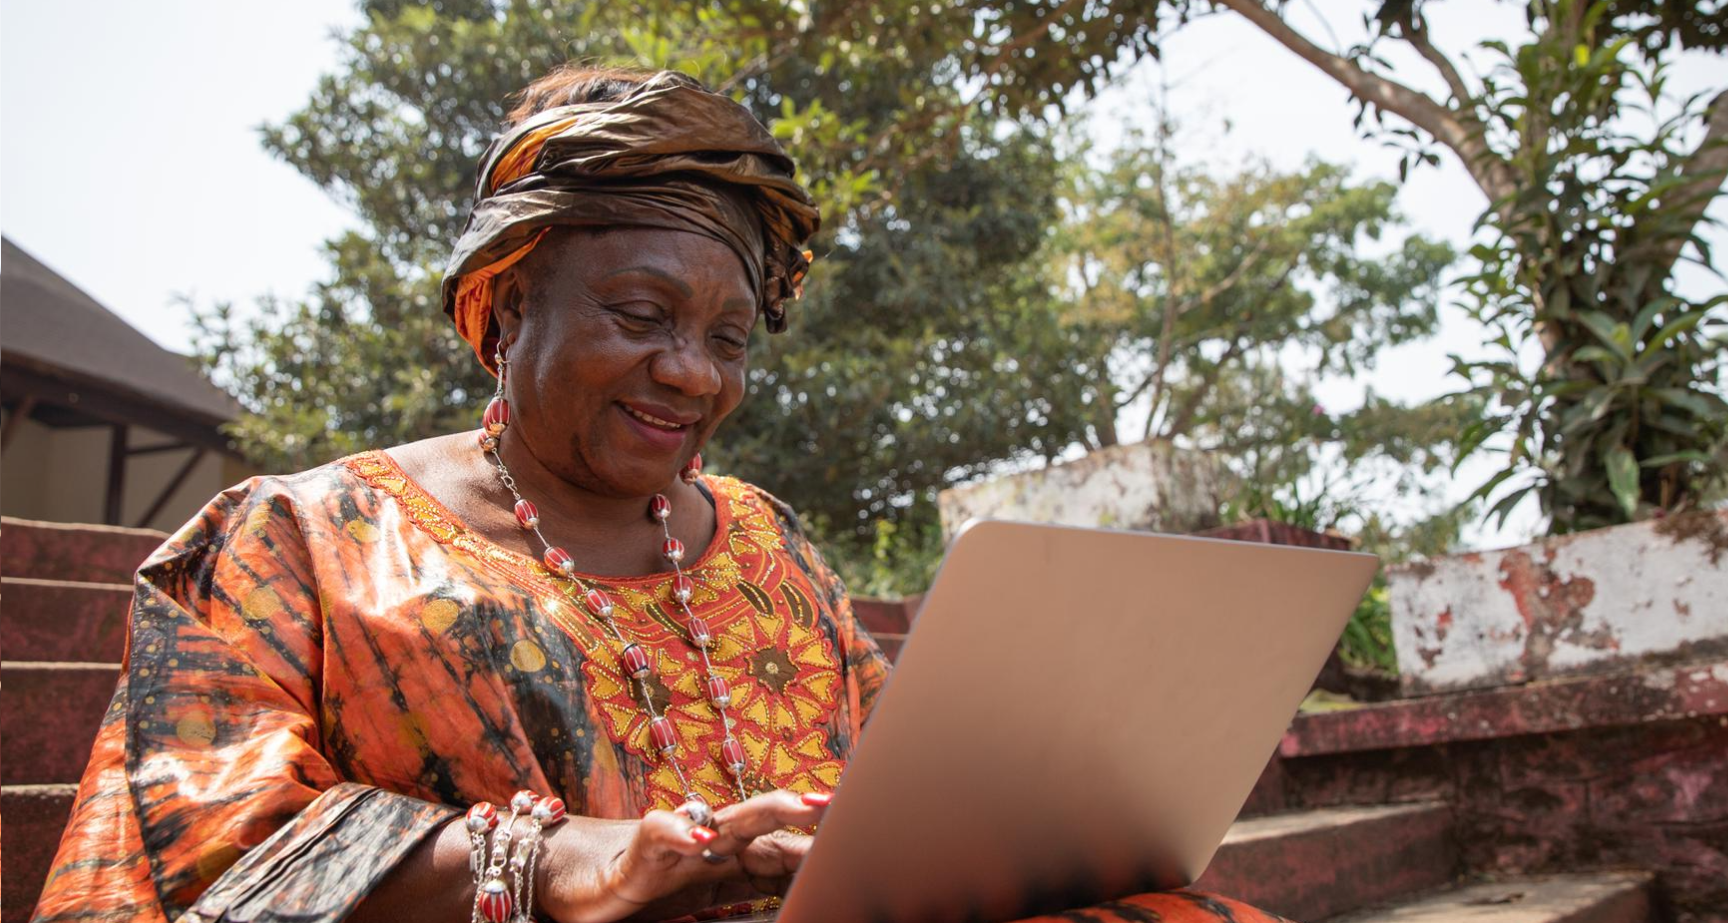
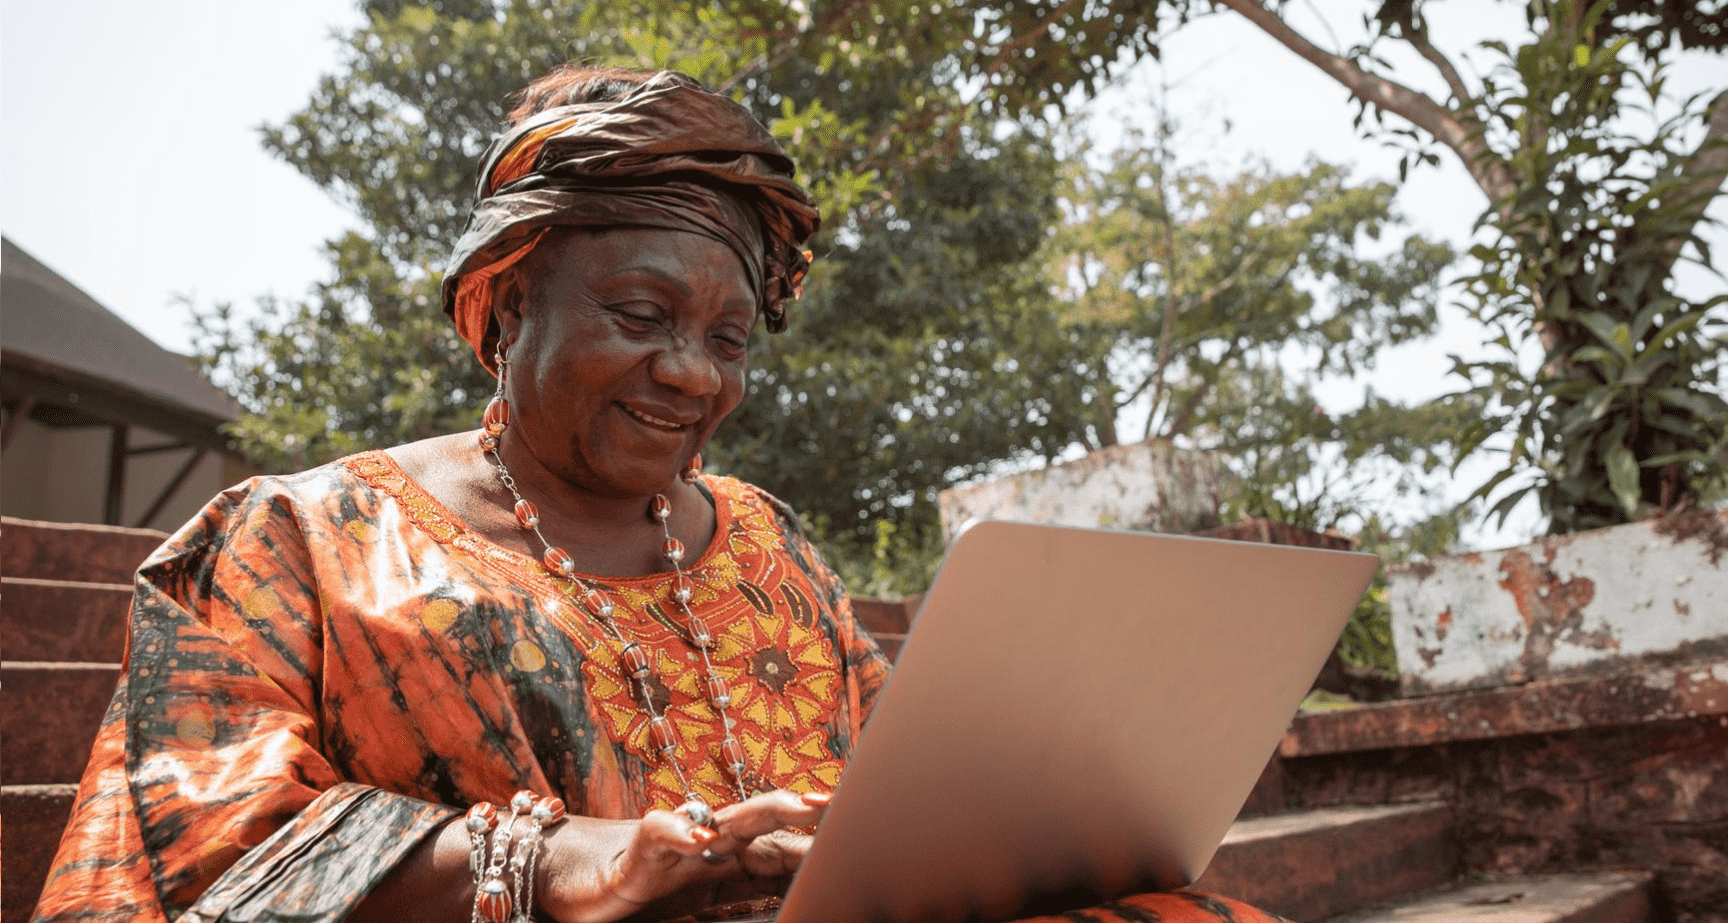
reduced image sizes

diff --git a/src/Components/HomePage/partner.jsx b/src/Components/HomePage/partner.jsx
@@ -18,7 +18,7 @@ const Partner = () => {
             create a more connected and empowered continent.
           </p>
 
-          <Btn className={"bg-pry text-white"} text='Get in Touch' />
+          <Btn className={"bg-pry text-white scroll"} text='Get in Touch' />
         </div>
         <AnimationOnScroll animateIn='animate__zoomIn'>
           <div className='w-full h-full md:w-64 lg:w-[500px]'>
